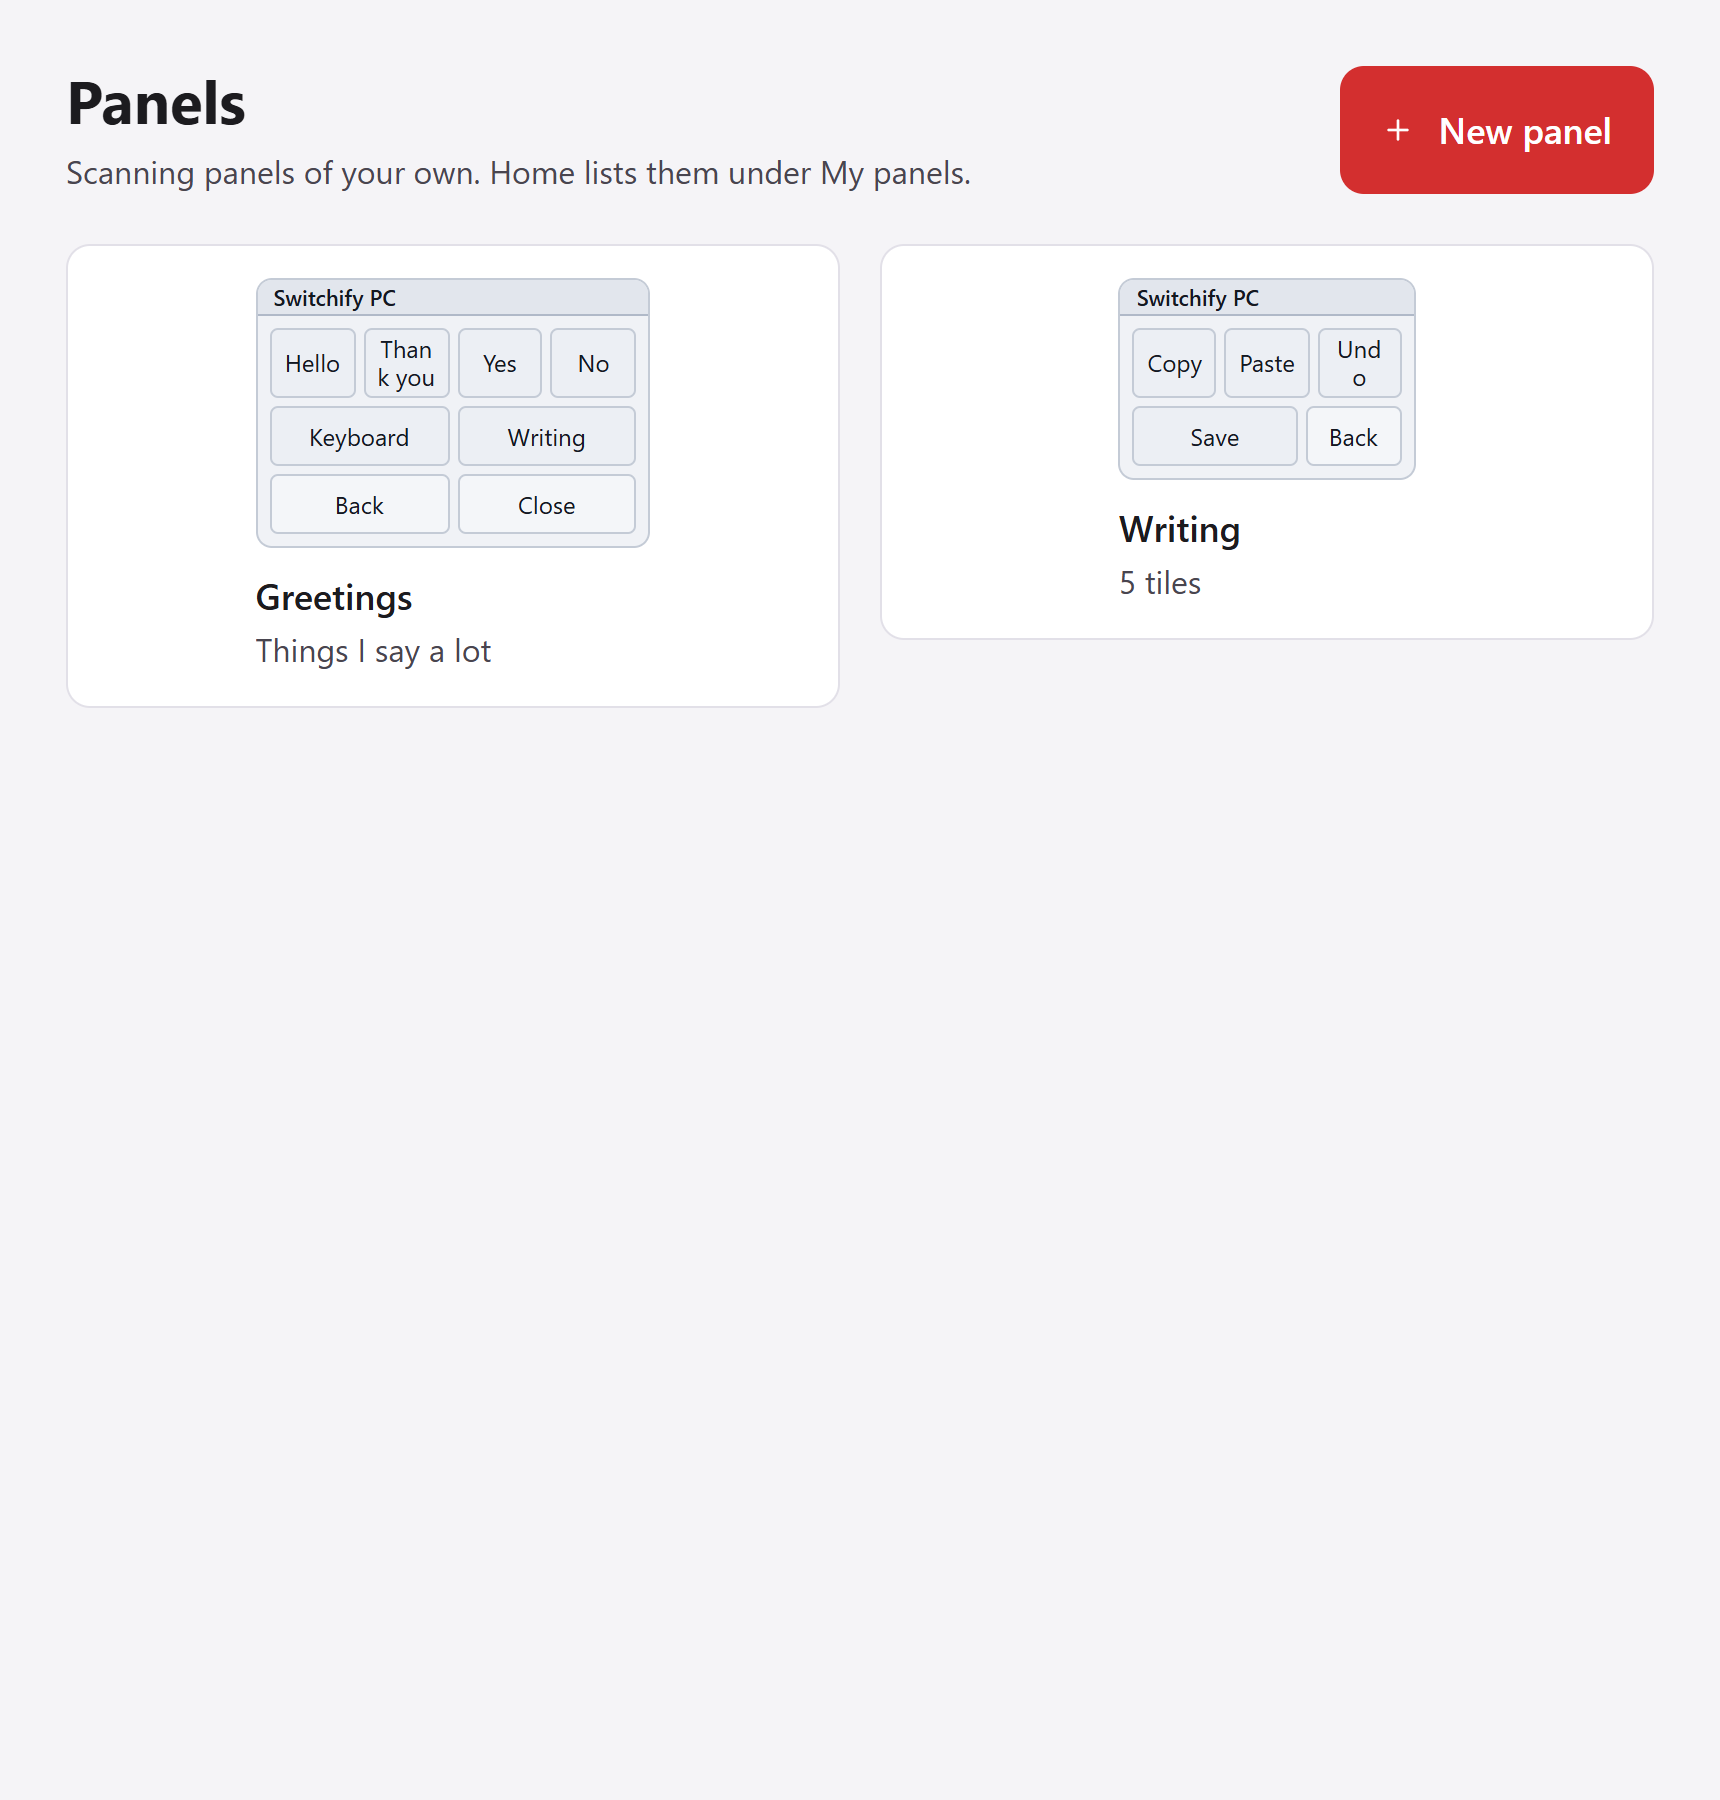
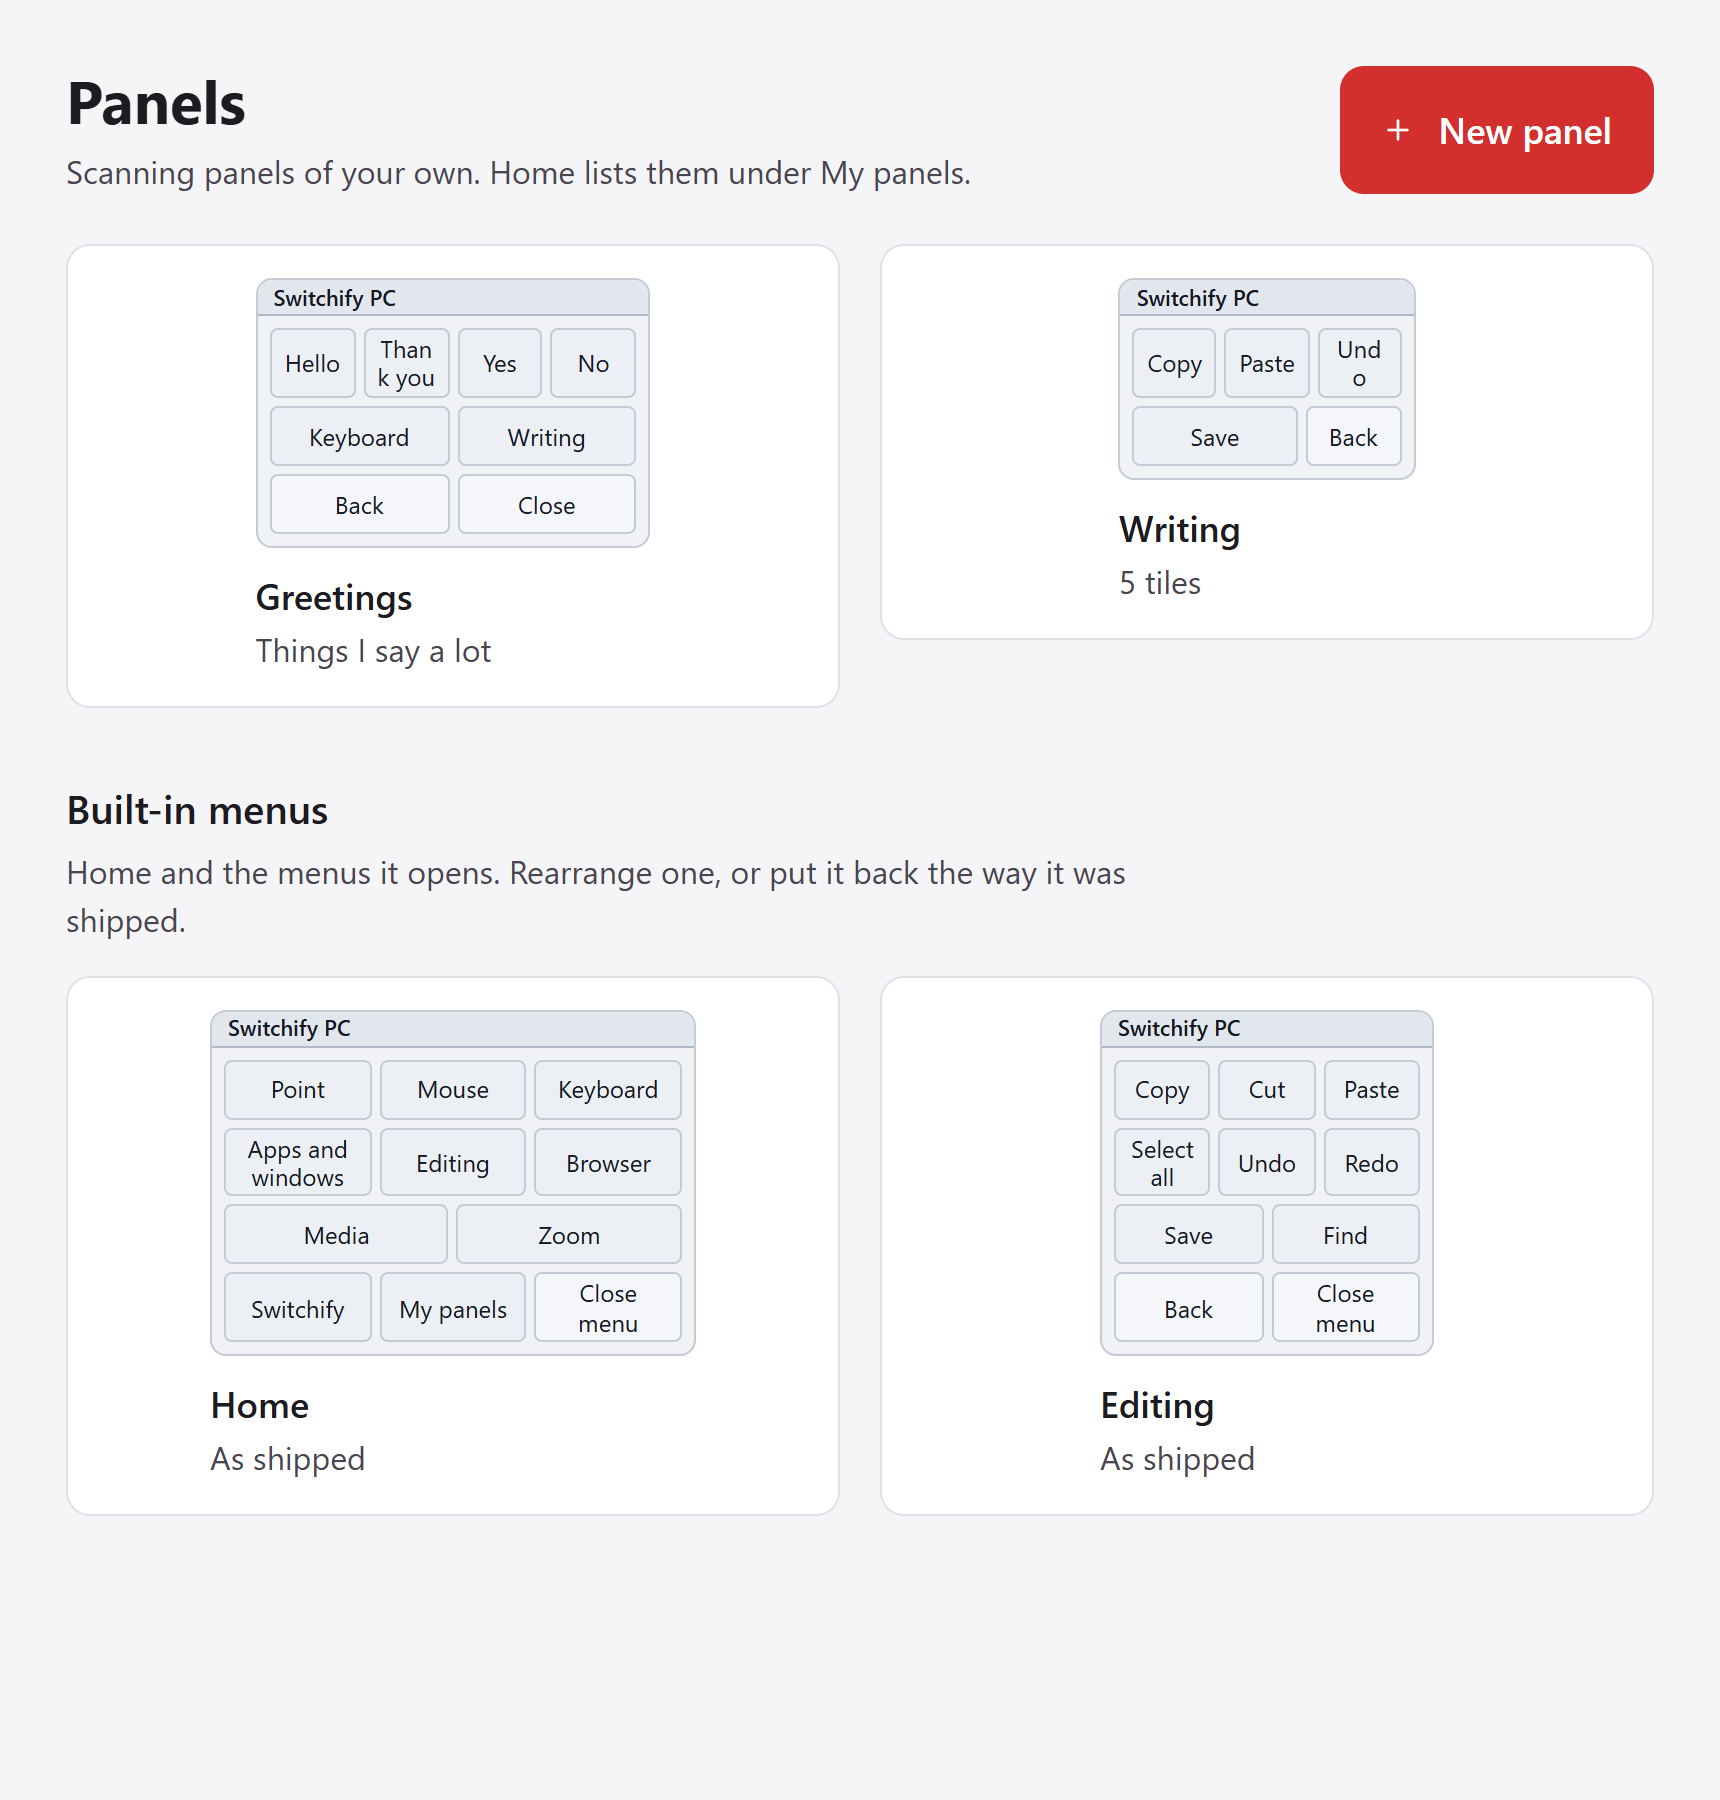
Document rearranging the built-in menus
Closes #1280

diff --git a/site/src/content/docs/using/panels.md b/site/src/content/docs/using/panels.md
@@ -1,13 +1,13 @@
 ---
 title: Panels
-description: Make scanning panels of your own, see them drawn as they will appear, and open them from Home under My panels.
+description: Make scanning panels of your own, rearrange Home and the built-in menus, see them drawn as they will appear, and open your panels from Home under My panels.
 ---
 
 A panel is a page of tiles that scans like the Home menu. Each tile does one thing when you choose it: presses keys, types a phrase, runs an action such as Copy or Play, opens the keyboard, the mouse panel or a built-in menu, or opens another panel of yours. The panel stays open after each action so you can choose the next one, until you choose a tile that goes **Back** or closes it.
 
 Open **Panels** in the sidebar of the Switchify PC window to see your panels. Each one is shown as a small picture of the panel, drawn the way the scan will draw it, in the light or dark panel theme you chose in Scanning settings.
 
-![The Panels page with two panels, Greetings and Writing, each drawn as a small picture of its tiles with its name underneath and either its description or its number of tiles, and a New panel button.](../../../assets/screenshots/panels.png)
+![The Panels page with two panels, Greetings and Writing, each drawn as a small picture of its tiles with its name underneath and either its description or its number of tiles, a New panel button, and below them a Built-in menus group showing Home and Editing as shipped.](../../../assets/screenshots/panels.png)
 
 ## Make a panel
 
@@ -44,6 +44,20 @@ The picture under the rows shows the panel as it will scan.
 Actions act on the window in front, as Home does. A tile that opens a panel you have since deleted says so when chosen.
 
 Your panels are saved on this computer. If you sign in to your account, they go to your other computers with your settings.
+
+## Rearrange the built-in menus
+
+Below your panels, **Built-in menus** lists Home and the menus it opens: More actions, Mouse, Editing, Apps and windows, Browser, Tabs, Zoom, Media, Displays and Scanning. Each is drawn as it scans. Choose one to open it in the same editor and move, add or remove its tiles, change their labels, or give a tile a different action. The menu keeps its name. Choose **Save panel** and the next scan uses your arrangement; the card then says **Rearranged**.
+
+Two rules keep a menu usable: it must keep a tile that goes **Back** or closes it, and Home must keep **Close menu**, which ends scanning. The editor says so and keeps Save off until the rule is met.
+
+**Reset to default** puts a menu back the way it was shipped. Switchify PC asks first.
+
+The Shut down and Restart pages, and the pages that appear after you choose a point or from the mouse panel, cannot be changed.
+
+![The editor open on the built-in Home menu: four rows of tiles, a Reset to default button beside Save panel, and no name field.](../../../assets/screenshots/builtin-menu-editor.png)
+
+Rearranged menus are saved on this computer and, if you sign in to your account, go to your other computers with your settings.
 
 ## Open a panel
 

diff --git a/site/src/content/docs/index.md b/site/src/content/docs/index.md
@@ -13,7 +13,7 @@ It is open source under the AGPL-3.0. See [licences, trial and purchase keys](/l
 - **Open menus for the things you do every day.** Switch and close windows, copy and paste, go back and forward in the browser, play and pause media, and change volume, all from a scanning menu that opens on a press.
 - **Type.** Switchify PC has its own scanning keyboard with word prediction that runs on the computer. Nothing you type leaves it.
 - **Move the pointer step by step** from a mouse panel, or send it out across the screen with Radar.
-- **Make panels of your own.** A panel is a page of tiles that scans like Home: each tile types a phrase, presses keys, runs an action or opens another panel. Build them in the Panels section and open them from Home. See [Panels](/using/panels/).
+- **Make panels of your own.** A panel is a page of tiles that scans like Home: each tile types a phrase, presses keys, runs an action or opens another panel. Build them in the Panels section and open them from Home. Home and the built-in menus can be rearranged there too. See [Panels](/using/panels/).
 - **Set the pace.** Automatic or manual scanning, the scan rate, how many passes before it stops, highlight colour and thickness, and panel size are all yours to change.
 
 ## Two ways to connect a switch

diff --git a/site/src/content/docs/using/home-menu.md b/site/src/content/docs/using/home-menu.md
@@ -17,6 +17,8 @@ Press and release **Select** to open Home. It scans through these items; press S
 | **Zoom** | Zoom in, zoom out and reset zoom in the app in front, using the Ctrl or Cmd shortcuts with =, - and 0. Browsers, PDF readers, mail apps and many other apps zoom with these keys. Some apps use them for something else; Word, for example, does not zoom. |
 | **Switchify** | Change the scan speed and line speed, switch between line-only and grid-then-line point scanning, change the keyboard layout, pause, reverse direction, and move to the next or previous display. |
 | **My panels** | Shown once you have made panels of your own. Opens a list of them; choose one to open it. A panel stays open after each action, so you can choose the next one, until you choose a tile that goes Back or closes it. |
+
+Home and the menus it opens can be rearranged in the [Panels](/using/panels/) section of the Switchify PC window, and put back the way they were shipped. The table above describes them as shipped.
 | **Close menu** | Close Home without doing anything. |
 
 ## Shut down or restart
